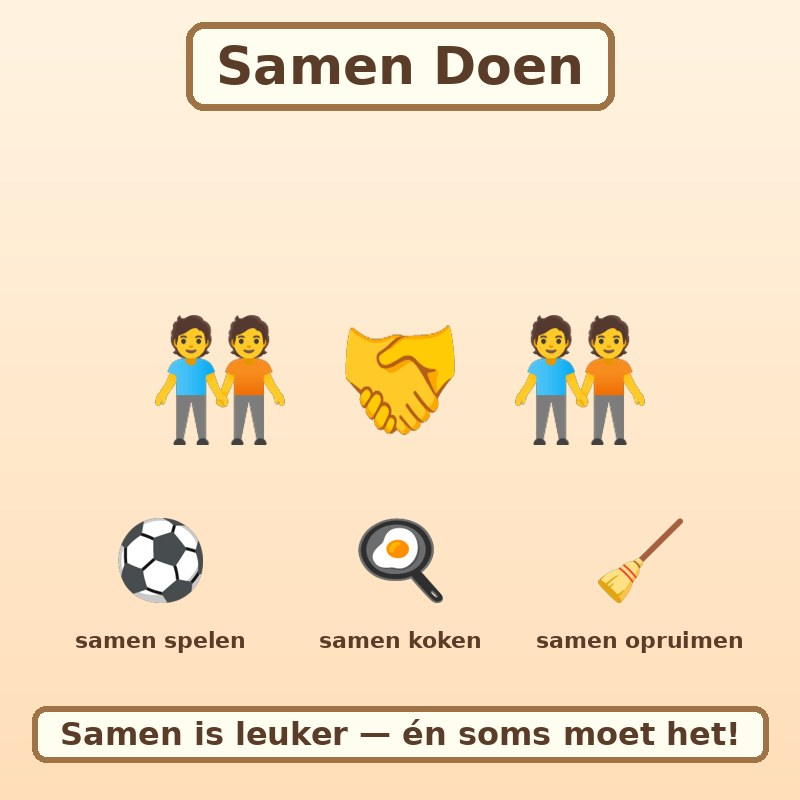
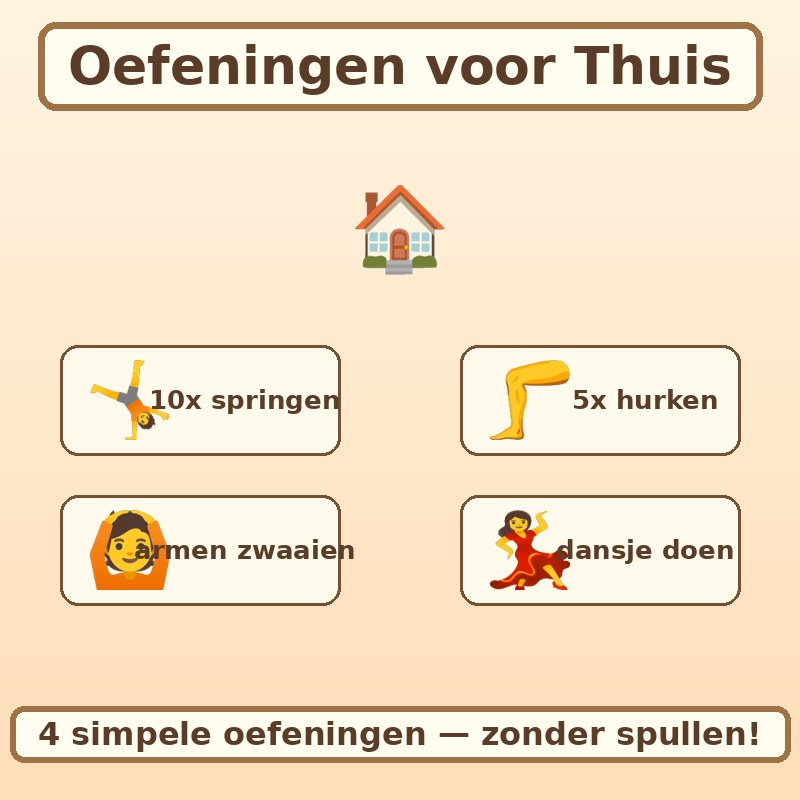
Chef Kokos uitgebreid naar 18 pagina's: thuis-oefeningen + klas-tot-master + beroepspaden (arts/bioloog/voedseldeskundige/kok/technicus/sportcoach)

diff --git a/index.html b/index.html
@@ -1171,7 +1171,7 @@ var BOEKEN=[
    {vraag:"Waar landden astronauten op?",goed:"De maan",opties:["De maan","Mars","De zon"]},
    {vraag:"Wat is de grootste planeet?",goed:"Jupiter",opties:["Jupiter","Mars","De Aarde"]}]}
 ,{id:"kokos",naam:"Chef Kokos — Gezond Leven",ic:"🥥",
-  woorden:["groente","fruit","kok","kokos","wortel","tomaat","pan","recept","water","slapen","spelen","opruimen"],
+  woorden:["groente","fruit","kok","kokos","wortel","tomaat","pan","recept","water","slapen","spelen","opruimen","arts","technicus","oefening"],
   zinnen:[{zin:"Wortels en tomaten groeien in de ___.",goed:"groentetuin",opties:["groentetuin","bakkerij","hemel"]},
    {zin:"Elke kleur van fruit en groente is een andere ___.",goed:"vitamine",opties:["vitamine","smaak","kleurplaat"]},
    {zin:"___ is de beste dorst-lesser.",goed:"Water",opties:["Water","Limonade","Chocolademelk"]},
@@ -1192,13 +1192,17 @@ var BOEKEN=[
    ["RECEPT van de Chef — fruitsalade in 4 stapjes: was het fruit, snijd het (samen met een volwassene!), meng het in een kom… en smul!"],
    ["Goed SLAPEN hoort er ook bij: op tijd naar bed, dan ben je morgen weer vol energie. Zzz…"],
    ["GYM en bewegen: elke dag rennen, springen, klimmen of fietsen — zo blijf je sterk en gezond."],
+   ["THUIS-OEFENINGEN — simpel, zonder spullen: 10x springen, 5x hurken, armen zwaaien en een dansje doen. Elke dag een beetje!"],
    ["SAMEN DOEN is het leukst: samen spelen, samen koken, samen opruimen — veel dingen zijn leuker (of kunnen alleen maar) mét meer dan één."],
+   ["Van KLAS naar UNIVERSITEIT: elke dag op school leer je iets nieuws — en wie doorleert, kan zelfs master worden!"],
+   ["Later word je… jij kiest je eigen PAD: arts, bioloog of voedseldeskundige — maar ook kok, technicus (auto-onderdelen, vliegtuigen!) of sportcoach. Verschillende paden, net als in het echte leven."],
    ["En tot slot: OPRUIMEN hoort erbij, plus de teken-wedstrijd van Chef Kokos — iedereen wint, want meedoen is het belangrijkst. Jij bent nu een echte gezonde chef. Smakelijk!"]],
   vragen:[{vraag:"Wie is de chef van dit boek?",goed:"Chef Kokos",opties:["Chef Kokos","Raket Roos","Tig de tijger"]},
    {vraag:"Wat is de beste dorst-lesser?",goed:"Water",opties:["Water","Frisdrank","Koffie"]},
    {vraag:"Met wie snijd je met een scherp mes?",goed:"Samen met een volwassene",opties:["Samen met een volwassene","Helemaal alleen","Met de hond"]},
    {vraag:"Waar bak je koekjes?",goed:"In de oven",opties:["In de oven","In de tuin","In de auto"]},
-   {vraag:"Wat is leuker (of moet je) samen doen?",goed:"samen spelen",opties:["samen spelen","alleen zitten","niks doen"]}]}
+   {vraag:"Wat is leuker (of moet je) samen doen?",goed:"samen spelen",opties:["samen spelen","alleen zitten","niks doen"]},
+   {vraag:"Kan een technicus ook doorstuderen?",goed:"Ja, zelfs tot master",opties:["Ja, zelfs tot master","Nee, nooit","Alleen op zondag"]}]}
 
 ];
 var EMOJI={kat:"🐱",hond:"🐶",beer:"🐻",vis:"🐟",aap:"🐵",kip:"🐔",zon:"☀",ster:"⭐",
@@ -1226,7 +1230,8 @@ var EMOJI={kat:"🐱",hond:"🐶",beer:"🐻",vis:"🐟",aap:"🐵",kip:"🐔",z
  wereld:"🌍",kaart:"🗺",continent:"🌍",oceaan:"🌊",hoofdstad:"⭐",provincie:"📍",rivier:"🏞",eiland:"🏝",nederland:"🇳🇱",amsterdam:"⭐",grenzen:"🚧",waddeneilanden:"🏝",
  koreaans:"🇰🇷",hallo:"👋",dank:"🙏",ja:"✅",nee:"❌",panda:"🐼",mina:"🐼",korea:"🇰🇷",mama:"👩",land:"🗺",
  planeet:"🪐",maan:"🌙",raket:"🚀",aarde:"🌍",mars:"🔴",astronaut:"👨🚀",melkweg:"🌌",komeet:"☄",satelliet:"🛰",ruimte:"🌌",
- groente:"🥦",fruit:"🍎",kok:"👨🍳",kokos:"🥥",wortel:"🥕",tomaat:"🍅",pan:"🍳",recept:"📋",slapen:"😴",opruimen:"🧹",gym:"🤸",vitamine:"💊",koekje:"🍪"};
+ groente:"🥦",fruit:"🍎",kok:"👨🍳",kokos:"🥥",wortel:"🥕",tomaat:"🍅",pan:"🍳",recept:"📋",slapen:"😴",opruimen:"🧹",gym:"🤸",vitamine:"💊",koekje:"🍪",
+ arts:"🧑⚕",bioloog:"🧑🔬",technicus:"🔧",oefening:"🤸",universiteit:"🎓",master:"🏅",vliegtuig:"✈"};
 
 // ====== NAVIGATIE
 var huidigVak="",huidigNiv="",vraagNr=0,goedTeller=0,goedRij=0,RONDE=8,rondeMax=RONDE;

diff --git a/sw.js b/sw.js
@@ -1,4 +1,4 @@
-const CACHE="g2b-schoolspelen-v16";
+const CACHE="g2b-schoolspelen-v17";
 // Klein precache: de app zelf is meteen klaar. Clips & boekplaatjes
 // cachen lazy bij eerste gebruik (install bleef anders ~13 MB blokkeren).
 const ASSETS=["./","./index.html"];
